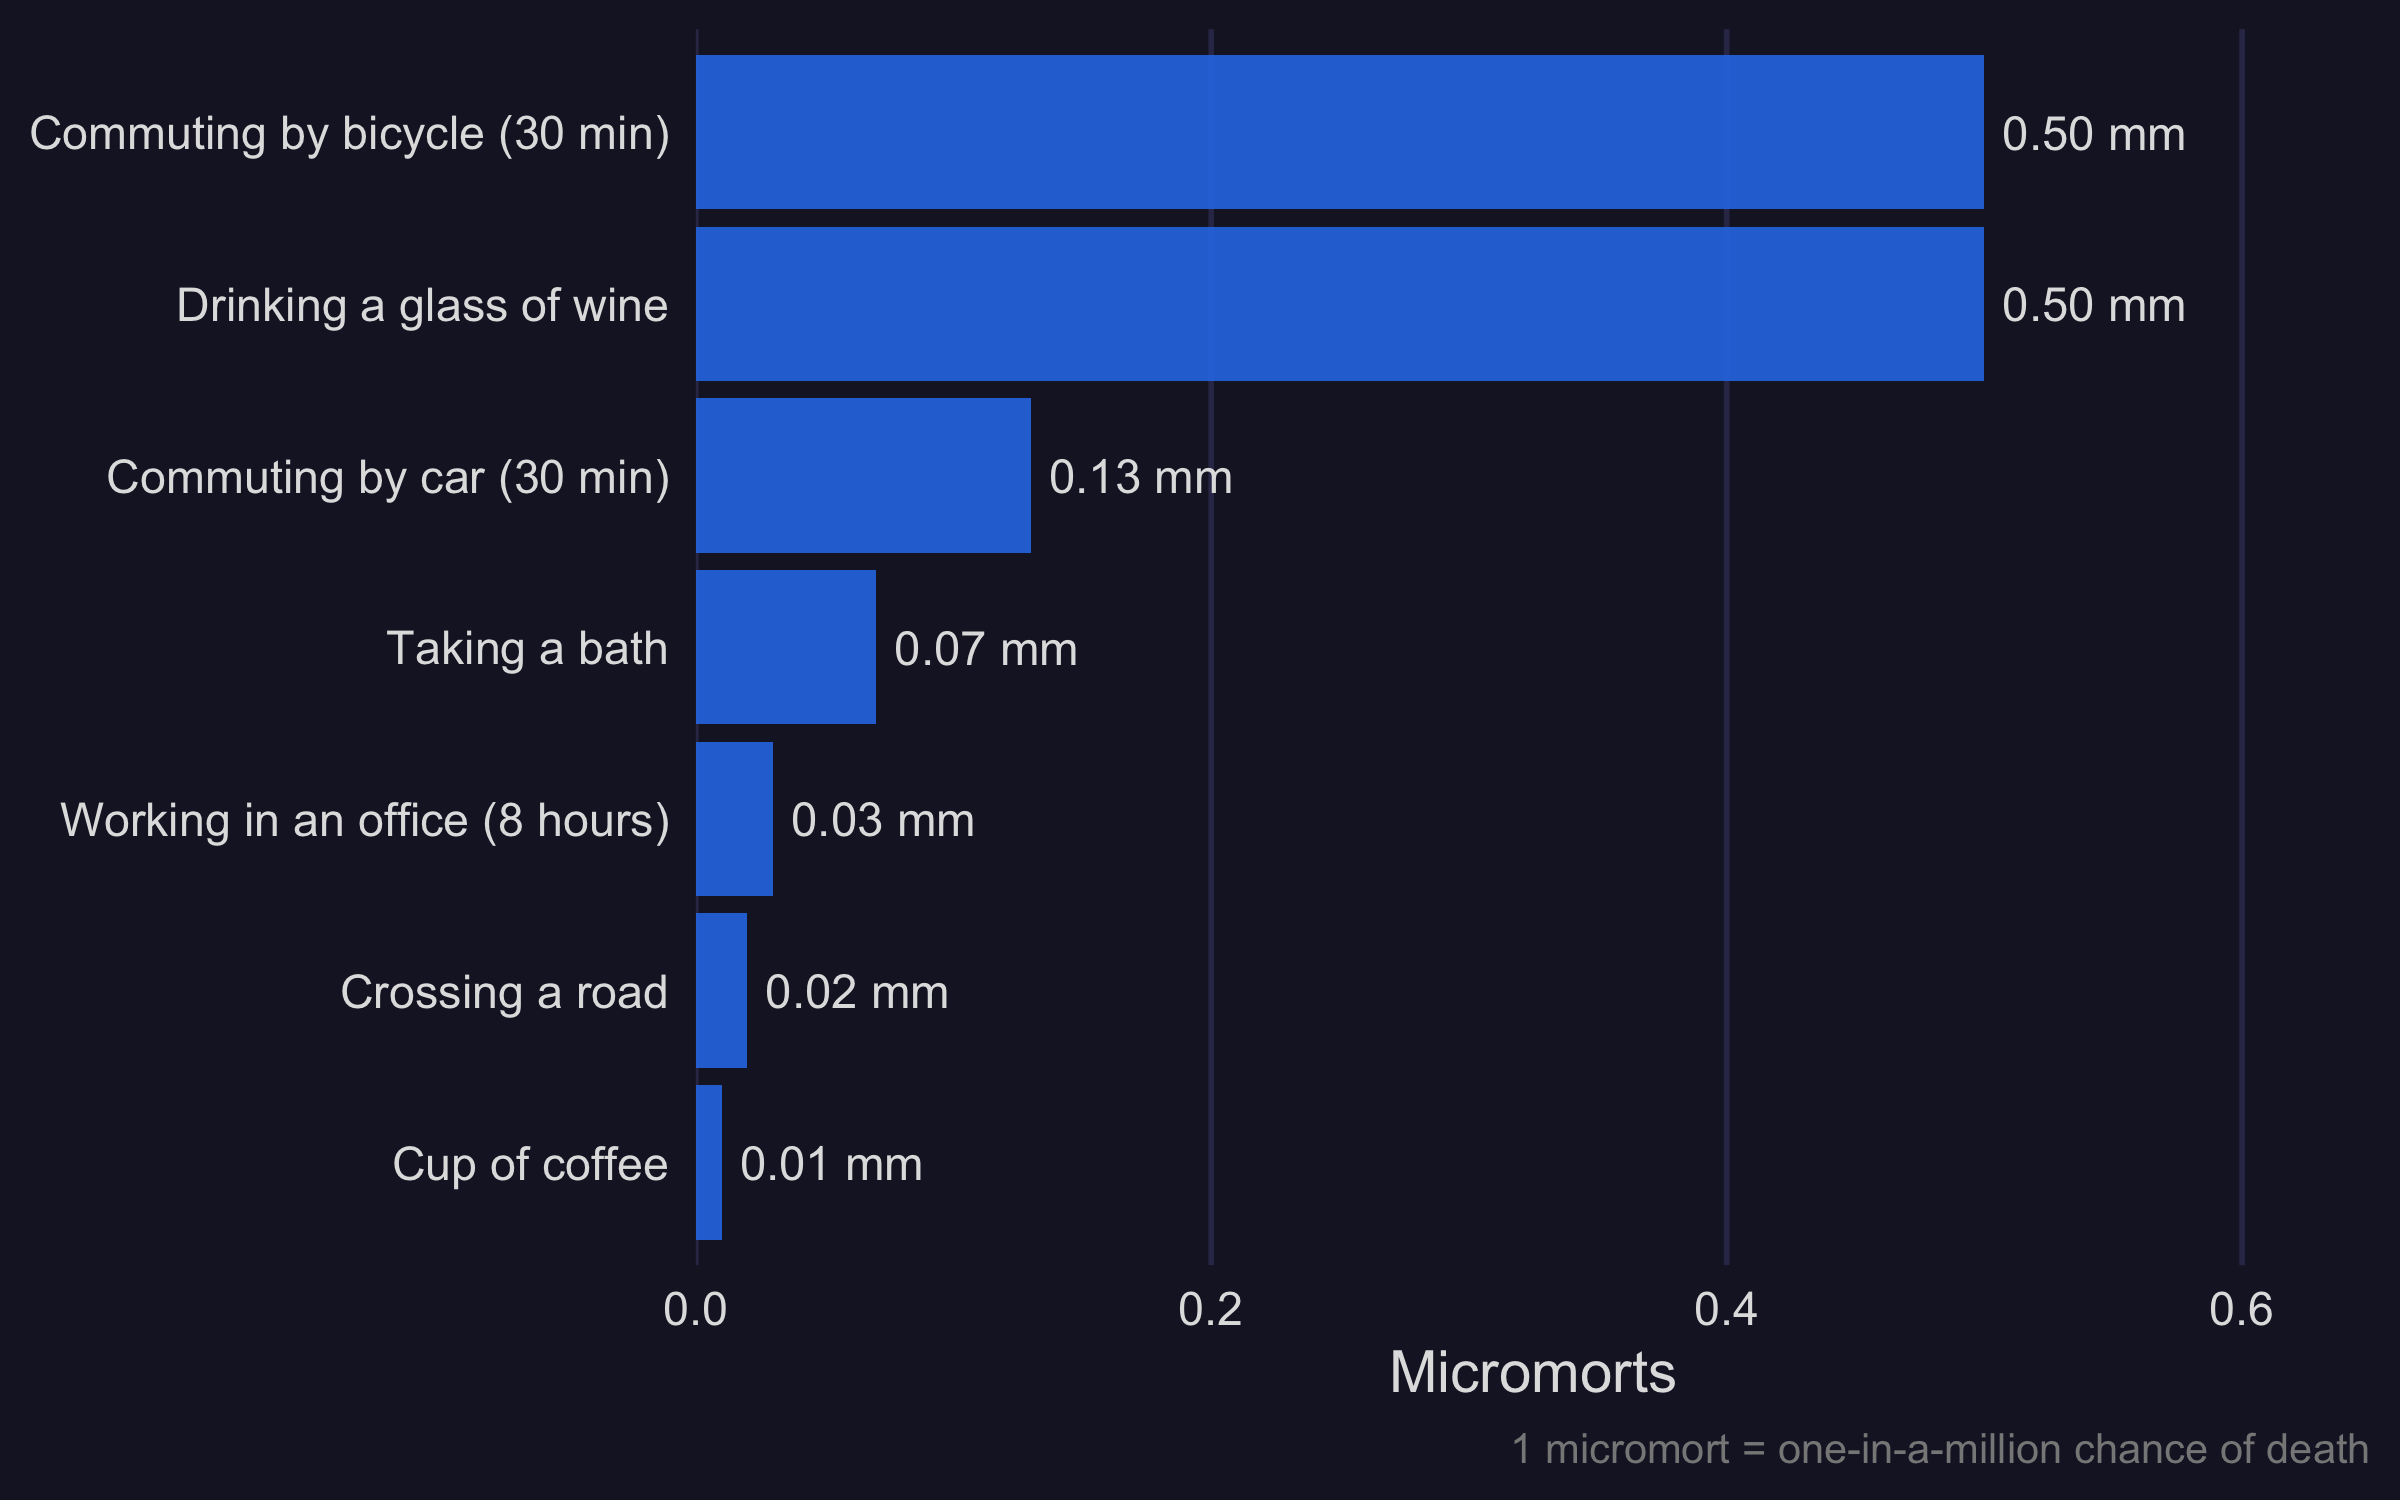
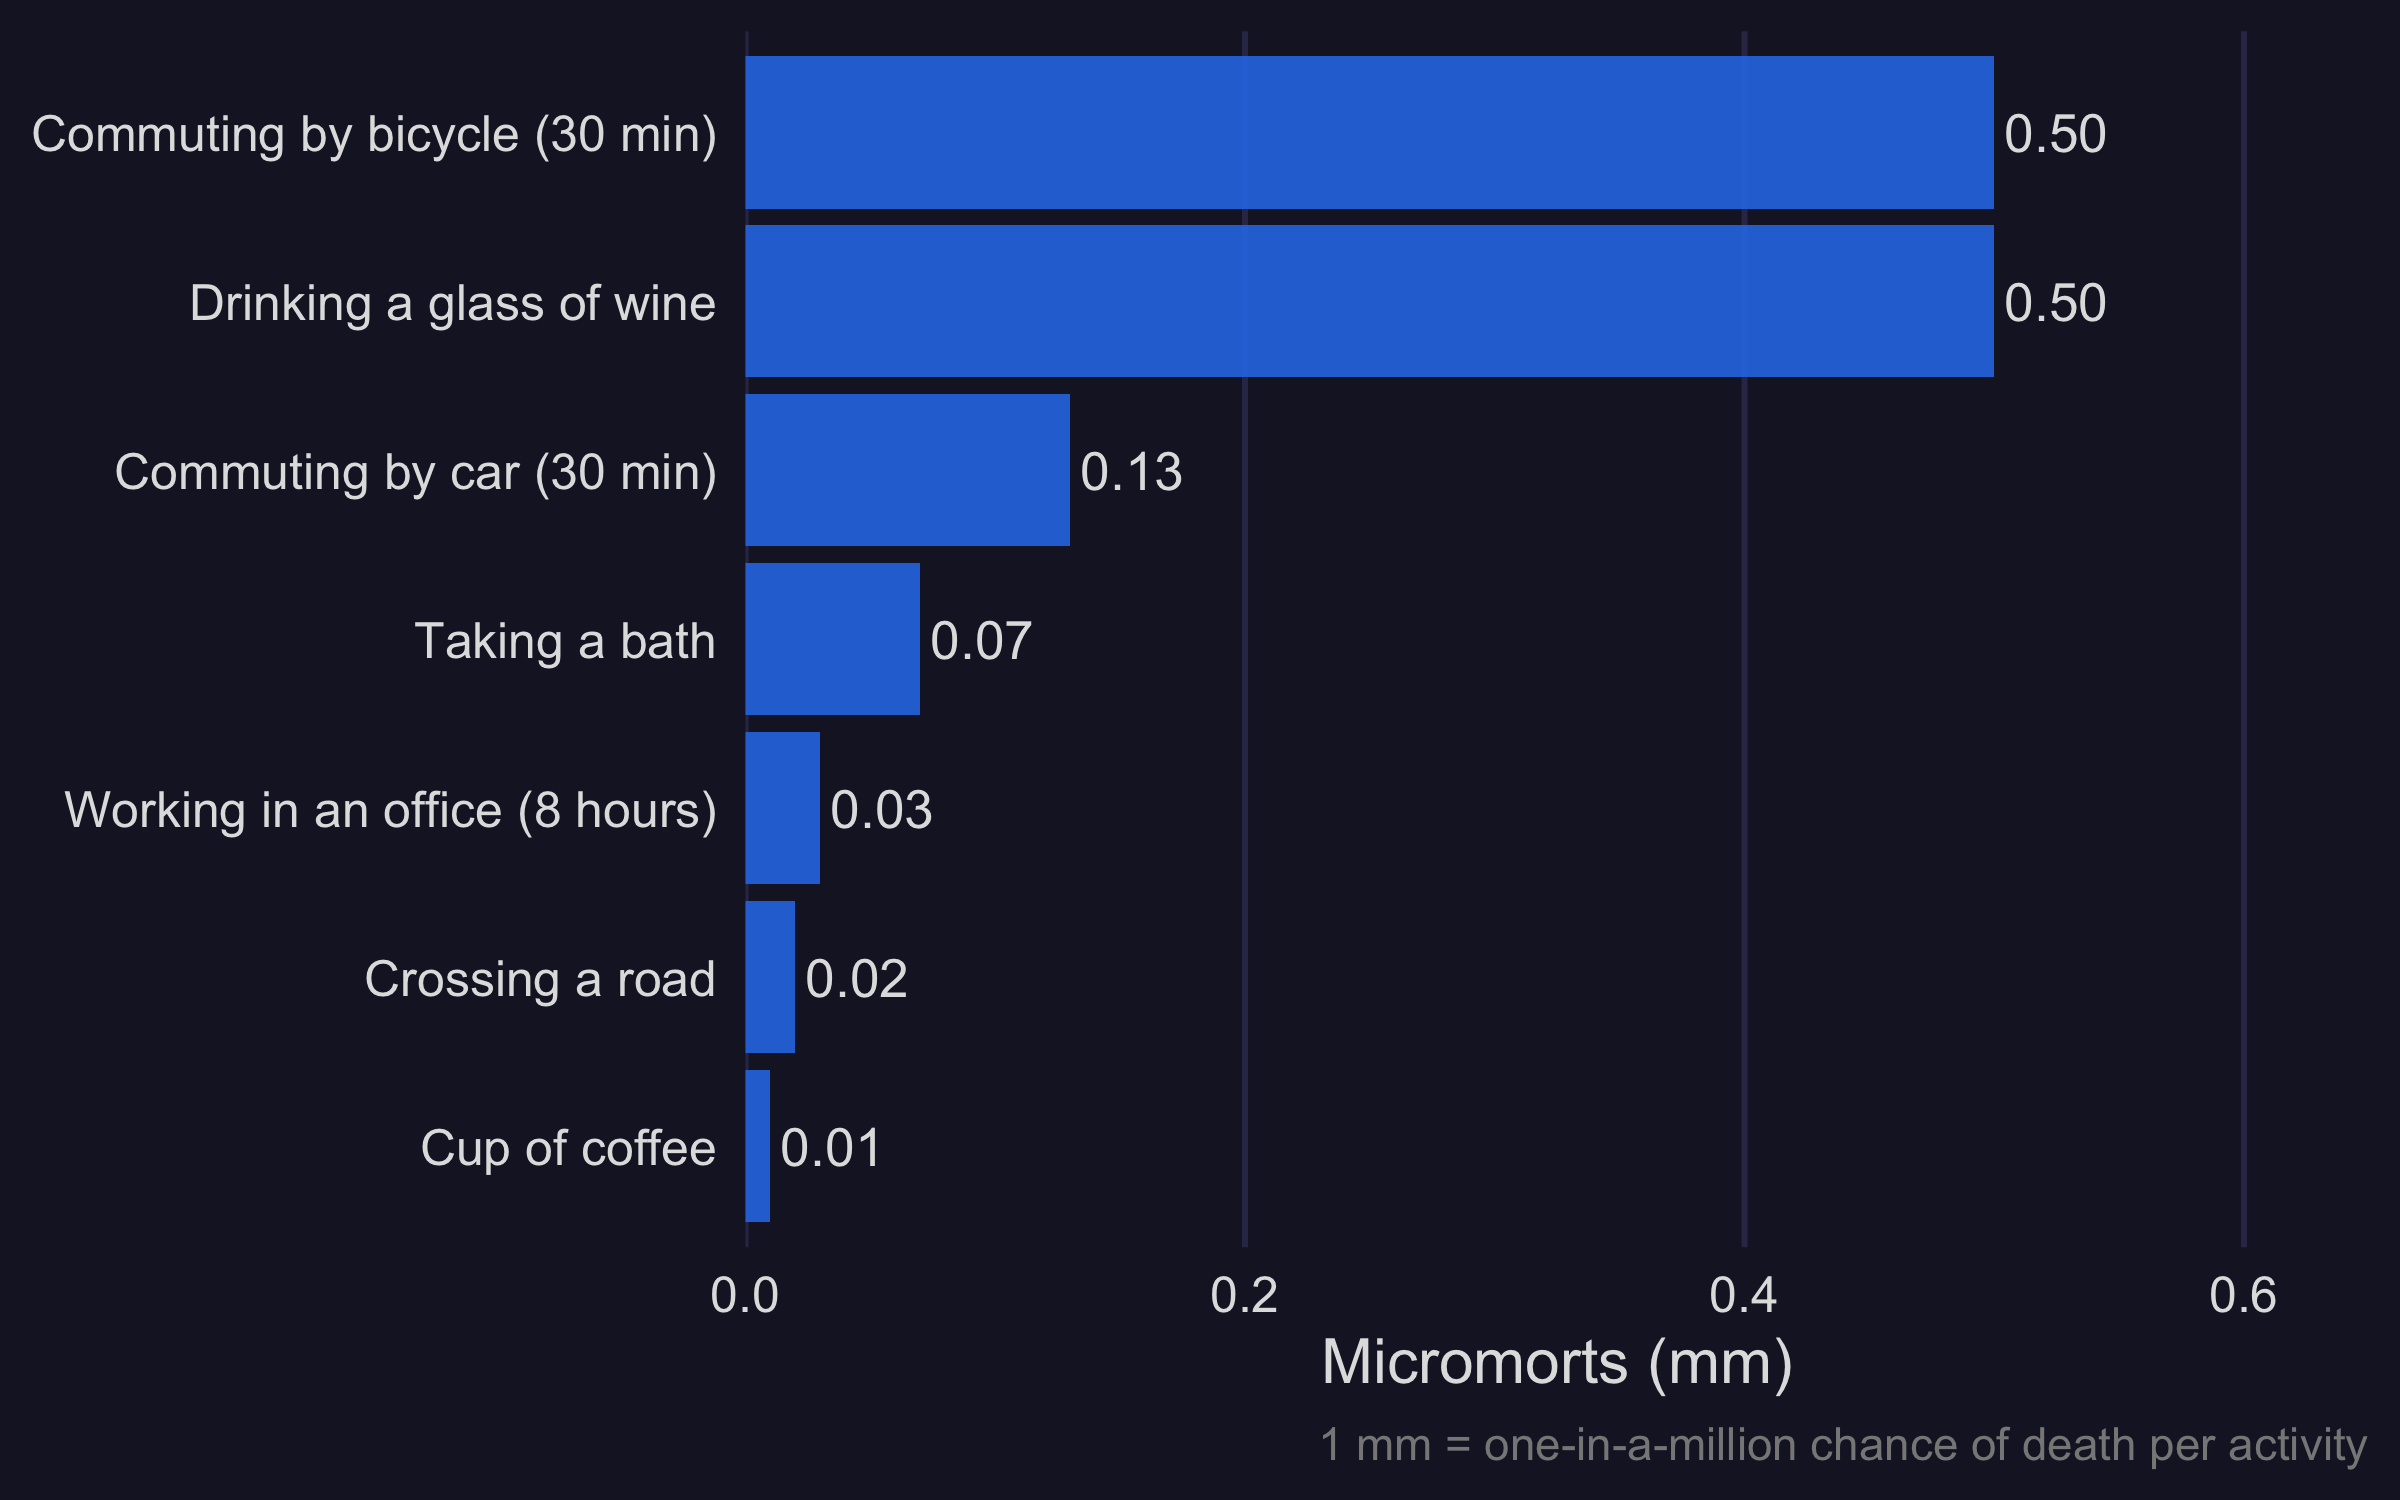
fix: 10 scrollytelling fixes — units, ratios, text size, highlights
1. Axis labels: Micromorts (mm), Microlives per day (ml/day)
2. Rewrite "each carries" — clarify per-activity meaning
3. Add ratio comparison table (vs coffee baseline)
4. Spectrum plot includes all text-referenced items (dental X-ray etc)
5. Spectrum plot taller (fig.height=10), larger y-axis text
6. Referenced items highlighted in red bold on spectrum chart
7. Everest: "4% chance of death" not "1-in-26"
8. Smoking arithmetic shown: 10 × 30 min = 300 min = 5 hrs
9. Diet vs exercise: note that both from Spiegelhalter BMJ 2012
10. Bridge table: Micromort (mm), Microlife (ml/day) abbreviations
Plus: larger narrative text (1.25rem), CSS for headings

diff --git a/docs/articles/scrollytelling.html b/docs/articles/scrollytelling.html
@@ -71,29 +71,84 @@ ul.task-list li input[type="checkbox"] {
 </header>
 
 
+<div class="cell">
+<style type="text/css">
+.cr-section .narrative-col p,
+.cr-section .narrative-col li {
+  font-size: 1.25rem;
+  line-height: 1.8;
+}
+.cr-section .narrative-col h3 {
+  font-size: 1.6rem;
+}
+</style>
+</div>
 <div class="cr-section cr-column-screen sidebar-left">
 <div class="narrative-col">
 <section id="how-dangerous-is-your-morning" class="level3 narrative trigger">
 <h3 class="narrative anchored" data-anchor-id="how-dangerous-is-your-morning">How dangerous is your morning?</h3>
 </section>
-<div class="trigger">
-<div class="narrative">
-<p>Every morning you make dozens of tiny gambles with your life. Brewing coffee. Crossing the road. Driving to work.</p>
-</div>
-</div>
 <div class="trigger new-trigger" data-focus-on="cr-mundane">
 <div class="narrative">
-<p>Each carries a <strong>micromort</strong> — a one-in-a-million chance of death.</p>
+<p>Every morning involves risk. Brewing coffee. Crossing the road. Commuting to work. Each activity carries a measurable probability of death.</p>
 </div>
 </div>
 <div class="trigger">
 <div class="narrative">
-<p>Your cup of coffee? <strong>0.01 micromorts.</strong> The ride to work by car? <strong>0.13 micromorts.</strong> By bicycle? <strong>0.5 micromorts</strong> — roughly four times riskier than driving.</p>
+<p>A <strong>micromort (mm)</strong> is a one-in-a-million chance of death from a single activity.</p>
 </div>
 </div>
 <div class="trigger">
+<table class="narrative caption-top table">
+<thead>
+<tr class="header">
+<th>Activity</th>
+<th style="text-align: center;">Micromorts (mm)</th>
+<th style="text-align: center;">Ratio vs coffee</th>
+</tr>
+</thead>
+<tbody>
+<tr class="odd">
+<td>Cup of coffee</td>
+<td style="text-align: center;">0.01</td>
+<td style="text-align: center;">1x</td>
+</tr>
+<tr class="even">
+<td>Crossing a road</td>
+<td style="text-align: center;">0.02</td>
+<td style="text-align: center;">2x</td>
+</tr>
+<tr class="odd">
+<td>Office work (8 hrs)</td>
+<td style="text-align: center;">0.03</td>
+<td style="text-align: center;">3x</td>
+</tr>
+<tr class="even">
+<td>Taking a bath</td>
+<td style="text-align: center;">0.07</td>
+<td style="text-align: center;">7x</td>
+</tr>
+<tr class="odd">
+<td>Commuting by car</td>
+<td style="text-align: center;">0.13</td>
+<td style="text-align: center;">13x</td>
+</tr>
+<tr class="even">
+<td>Glass of wine</td>
+<td style="text-align: center;">0.50</td>
+<td style="text-align: center;">50x</td>
+</tr>
+<tr class="odd">
+<td>Commuting by bicycle</td>
+<td style="text-align: center;">0.50</td>
+<td style="text-align: center;">50x</td>
+</tr>
+</tbody>
+</table>
+</div>
+<div class="trigger">
 <div class="narrative">
-<p>These numbers are vanishingly small. But they are not zero — and they are not equal.</p>
+<p>Cycling to work is <strong>50 times riskier than drinking a cup of coffee</strong> — and roughly <strong>4 times riskier than driving</strong> (0.50 / 0.13 = 3.8x).</p>
 </div>
 </div>
 </div>
@@ -125,27 +180,22 @@ ul.task-list li input[type="checkbox"] {
 </div>
 <div class="trigger">
 <div class="narrative">
-<p>The micromort scale spans <strong>six orders of magnitude</strong> — from 0.01 (a dental X-ray) to nearly 40,000 (summiting Everest).</p>
+<p>The micromort scale spans <strong>six orders of magnitude</strong> — from a dental X-ray (0.05 mm) to summiting Everest (37,932 mm).</p>
 </div>
 </div>
 <div class="trigger">
 <div class="narrative">
-<p>At the bottom: the invisible risks of daily life. A cup of coffee, a bath, a road crossing. Each below 0.1 micromorts.</p>
+<p><strong>Bottom</strong> (&lt; 1 mm): daily activities — commuting, coffee, office work, dental X-rays. Risks you never notice.</p>
 </div>
 </div>
 <div class="trigger">
 <div class="narrative">
-<p>In the middle: the risks we weigh consciously. A hospital stay (75 mm). Surgery under general anaesthesia (10 mm). A long-haul flight (4 mm).</p>
+<p><strong>Middle</strong> (1–100 mm): risks you weigh consciously — a night in hospital (75 mm), general anaesthesia (10 mm), a long-haul flight (4 mm), running a marathon (7 mm).</p>
 </div>
 </div>
 <div class="trigger">
 <div class="narrative">
-<p>At the top: risks that make headlines. Base jumping (430 mm per jump). <strong>Everest: 37,932 micromorts per ascent</strong> — a 1-in-26 chance of death.</p>
-</div>
-</div>
-<div class="trigger">
-<div class="narrative">
-<p>The logarithmic scale is not an aesthetic choice. It is the only honest way to show data that ranges from coffee to Everest.</p>
+<p><strong>Top</strong> (&gt; 100 mm): risks that make headlines — base jumping (430 mm per jump), Himalayan mountaineering (12,000 mm), <strong>Everest at 37,932 mm — roughly a 4% chance of death per ascent</strong>.</p>
 </div>
 </div>
 </div>
@@ -172,22 +222,22 @@ ul.task-list li input[type="checkbox"] {
 </section>
 <div class="trigger new-trigger" data-focus-on="cr-chronic">
 <div class="narrative">
-<p>Not all risks kill you in an instant.</p>
+<p>Not all risks kill in an instant.</p>
 </div>
 </div>
 <div class="trigger">
 <div class="narrative">
-<p>Some shorten your life by half an hour, every single day. David Spiegelhalter called these <strong>microlives</strong> — each one worth 30 minutes of life expectancy.</p>
+<p>Some shorten your life by half an hour, every single day. David Spiegelhalter called these <strong>microlives (ml)</strong> — each one worth 30 minutes of life expectancy.</p>
 </div>
 </div>
 <div class="trigger">
 <div class="narrative">
-<p><strong>Smoking 20 cigarettes a day costs 10 microlives.</strong> That is 5 hours of life, lost every 24 hours. A heavy smoker lives as though the day were only 19 hours long.</p>
+<p><strong>Smoking 20 cigarettes a day costs 10 microlives.</strong> That is 10 × 30 = 300 minutes = <strong>5 hours of life, lost every 24 hours.</strong> A heavy smoker lives as though the day were only 19 hours long.</p>
 </div>
 </div>
 <div class="trigger">
 <div class="narrative">
-<p>But the scale works in reverse too. <strong>150 minutes of weekly exercise gains 3 microlives per day.</strong> Five servings of fruit and vegetables: +4 microlives. A Mediterranean diet: +2.</p>
+<p>The scale works in reverse too. <strong>150 minutes of weekly exercise gains 3 ml/day.</strong> Five servings of fruit and vegetables: <strong>+4 ml/day</strong> — yes, diet can outweigh exercise in Spiegelhalter’s estimates (both from the BMJ 2012 paper). A Mediterranean diet: +2 ml/day.</p>
 </div>
 </div>
 <div class="trigger">
@@ -224,12 +274,12 @@ ul.task-list li input[type="checkbox"] {
 </div>
 <div class="trigger">
 <div class="narrative">
-<p>The answer is <strong>Loss of Life Expectancy</strong> — the average time lost or gained per exposure.</p>
+<p>The answer is <strong>Loss of Life Expectancy (LLE)</strong> — the average time lost or gained per exposure.</p>
 </div>
 </div>
 <div class="trigger">
 <div class="narrative">
-<p>One micromort costs roughly <strong>21 minutes</strong> of life expectancy. One microlife is <strong>30 minutes</strong>. So 1 micromort ≈ 0.7 microlives.</p>
+<p>One micromort costs roughly <strong>21 minutes</strong> of life expectancy. One microlife is <strong>30 minutes</strong>. So 1 mm ≈ 0.7 ml.</p>
 </div>
 </div>
 <div class="trigger">
@@ -242,15 +292,17 @@ ul.task-list li input[type="checkbox"] {
 <div class="sticky-col-stack">
 <div id="cr-bridge" class="sticky">
 <table class="table-striped caption-top table">
-<caption>The three currencies of risk.</caption>
+<caption>The three currencies of risk and the exchange rate between them.</caption>
 <colgroup>
-<col style="width: 23%">
-<col style="width: 42%">
-<col style="width: 34%">
+<col style="width: 19%">
+<col style="width: 16%">
+<col style="width: 35%">
+<col style="width: 29%">
 </colgroup>
 <thead>
 <tr class="header">
 <th>Unit</th>
+<th style="text-align: center;">Abbreviation</th>
 <th>Definition</th>
 <th>Example</th>
 </tr>
@@ -258,23 +310,27 @@ ul.task-list li input[type="checkbox"] {
 <tbody>
 <tr class="odd">
 <td><strong>Micromort</strong></td>
+<td style="text-align: center;">mm</td>
 <td>1-in-a-million death probability</td>
 <td>Skydiving (per jump) = 10 mm</td>
 </tr>
 <tr class="even">
 <td><strong>Microlife</strong></td>
+<td style="text-align: center;">ml/day</td>
 <td>30 min of life expectancy per day</td>
 <td>Smoking 2 cigs/day = −1 ml/day</td>
 </tr>
 <tr class="odd">
 <td><strong>LLE</strong></td>
+<td style="text-align: center;">min</td>
 <td>Loss of Life Expectancy</td>
-<td>1 mm ≈ 21 min ≈ 0.7 microlives</td>
+<td>1 mm ≈ 21 min ≈ 0.7 ml</td>
 </tr>
 <tr class="even">
 <td><strong>£ value</strong></td>
+<td style="text-align: center;">£</td>
 <td>NICE/DfT policy valuation</td>
-<td>1 mm ≈ £1.60 ≈ 1 ml</td>
+<td>1 mm ≈ £1.60 ≈ 1 ml/day</td>
 </tr>
 </tbody>
 </table>
@@ -289,12 +345,12 @@ ul.task-list li input[type="checkbox"] {
 </section>
 <div class="trigger new-trigger" data-focus-on="cr-quiz">
 <div class="narrative">
-<p>You now have three currencies for risk — micromorts, microlives, and loss of life expectancy.</p>
+<p>You now have three currencies for risk — micromorts (mm), microlives (ml/day), and loss of life expectancy (LLE).</p>
 </div>
 </div>
 <div class="trigger">
 <div class="narrative">
-<p>You know that a cup of coffee is 0.01 micromorts and Everest is 37,932. You know that smoking costs 10 microlives a day and exercise gains 3.</p>
+<p>You know that coffee is 0.01 mm and Everest is 37,932 mm. You know that smoking costs 10 ml/day and exercise gains 3 ml/day.</p>
 </div>
 </div>
 <div class="trigger">
